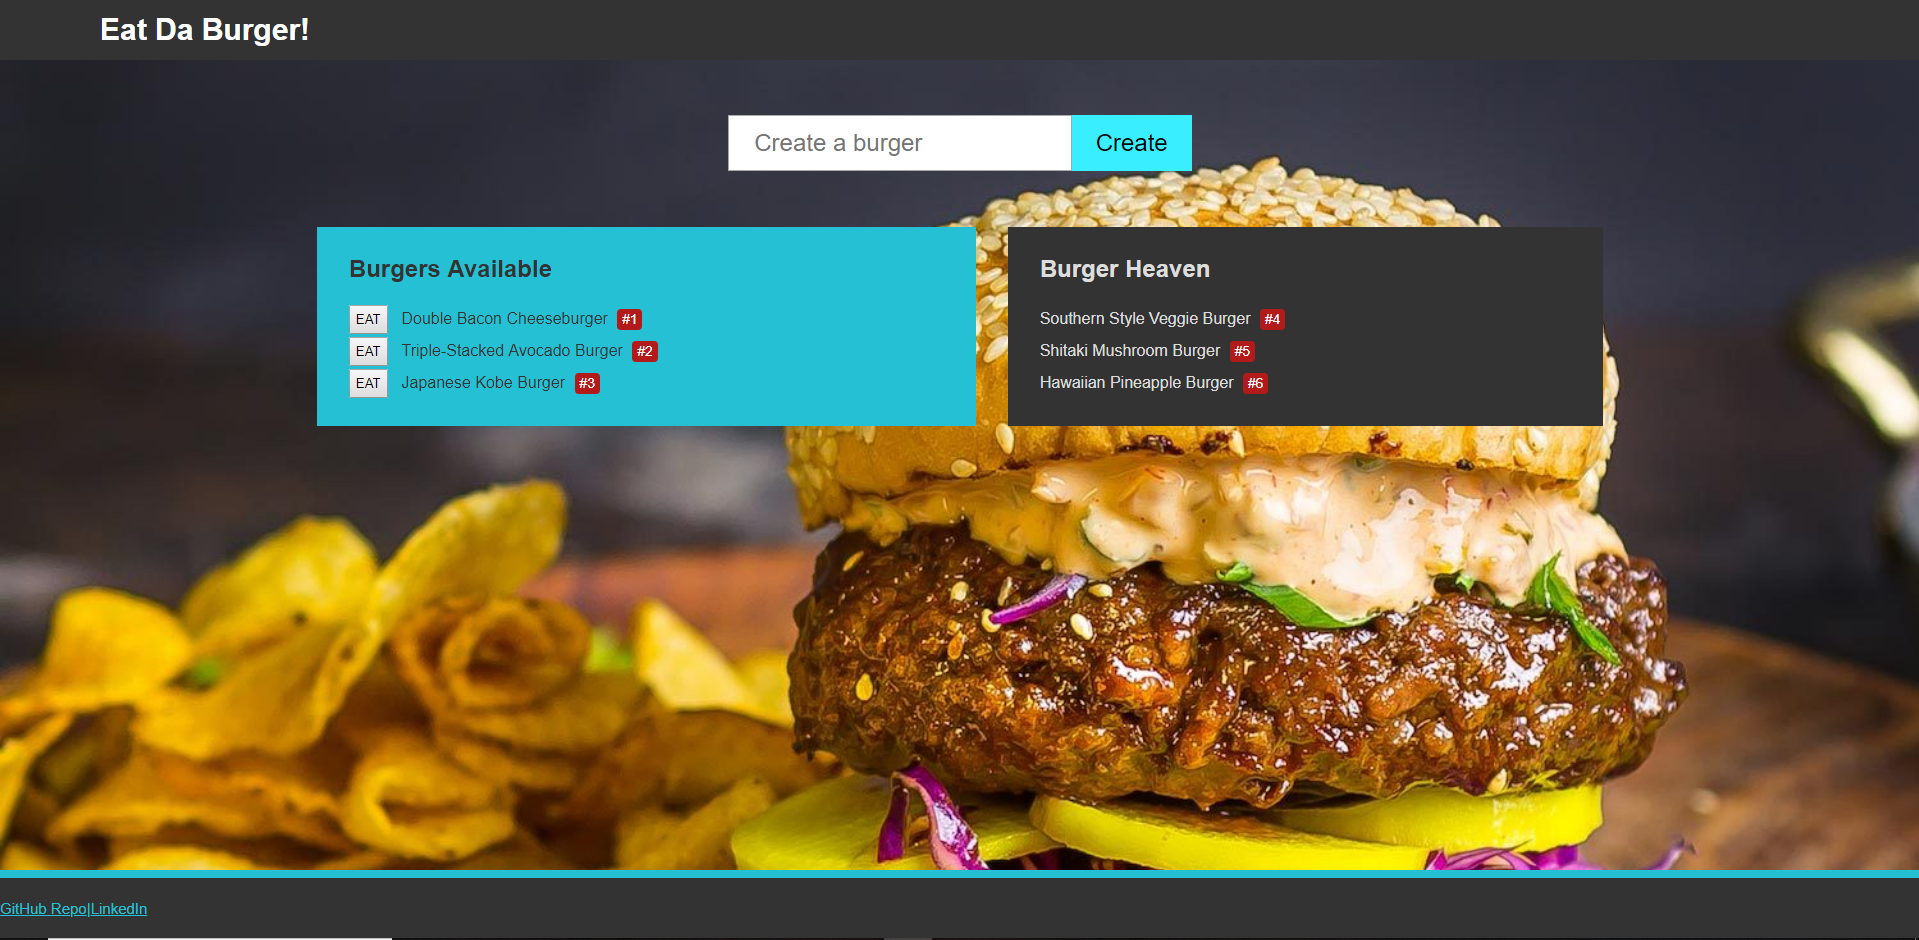
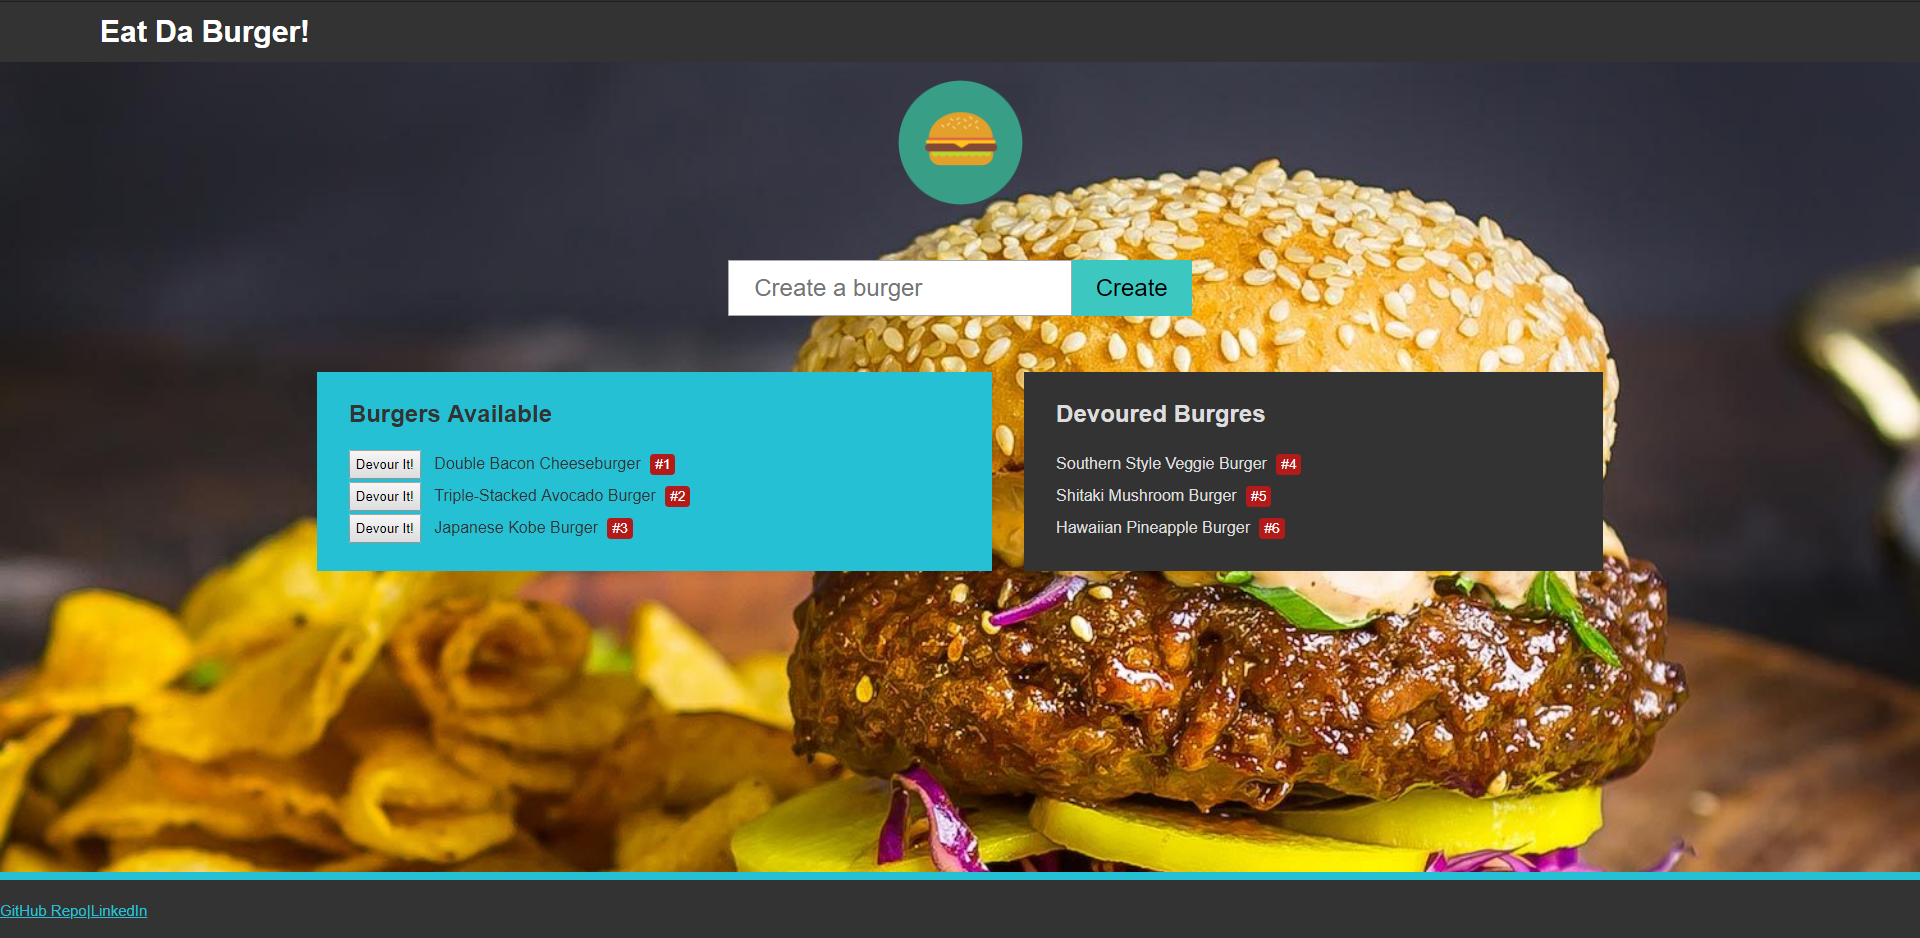
final

diff --git a/README.md b/README.md
@@ -1,9 +1,15 @@
 # Burger
 GW Homework #14 
 
-This application demonstrates a simple full stack application with a front end implemented with HTML/CSS and elements from the Materialize framework and the backend implemented with Node.js and Express. HTML templating is done with the help of Handlebars.
+<h1>Eat Da Burger!</h1>
+A burger eating and logging application with MySQL, Node, Express, Handlebars and a homemade ORM (yum!).
 
-The user may enter any burger name to add it to the menu. This also adds the new burger entry into the MySQL database. The initial burger entry is added as available on the menu and placed on the left side of the screen. The user may then eat any burger by clicking on it, which moves it into the adjacent column and updates its status accordingly in the database.
+<h2>Description<h2>
+This application demonstrates a simple full stack application with a front end implemented with HTML/CSS and the backend implemented with Node.js and Express. HTML templating is done with the help of Handlebars.
+
+The user may enter any burger name to add it to the menu. This also adds the new burger entry into the MySQL database. The initial burger entry is added under the available burgers menu and placed on the left side of the screen. The user may then eat any burger by clicking the <i>Devour It!</i> button, which moves it into the adjacent column and updates its status accordingly in the database.
+
+<img src="public/assets/img/app.PNG">
 
 
 
